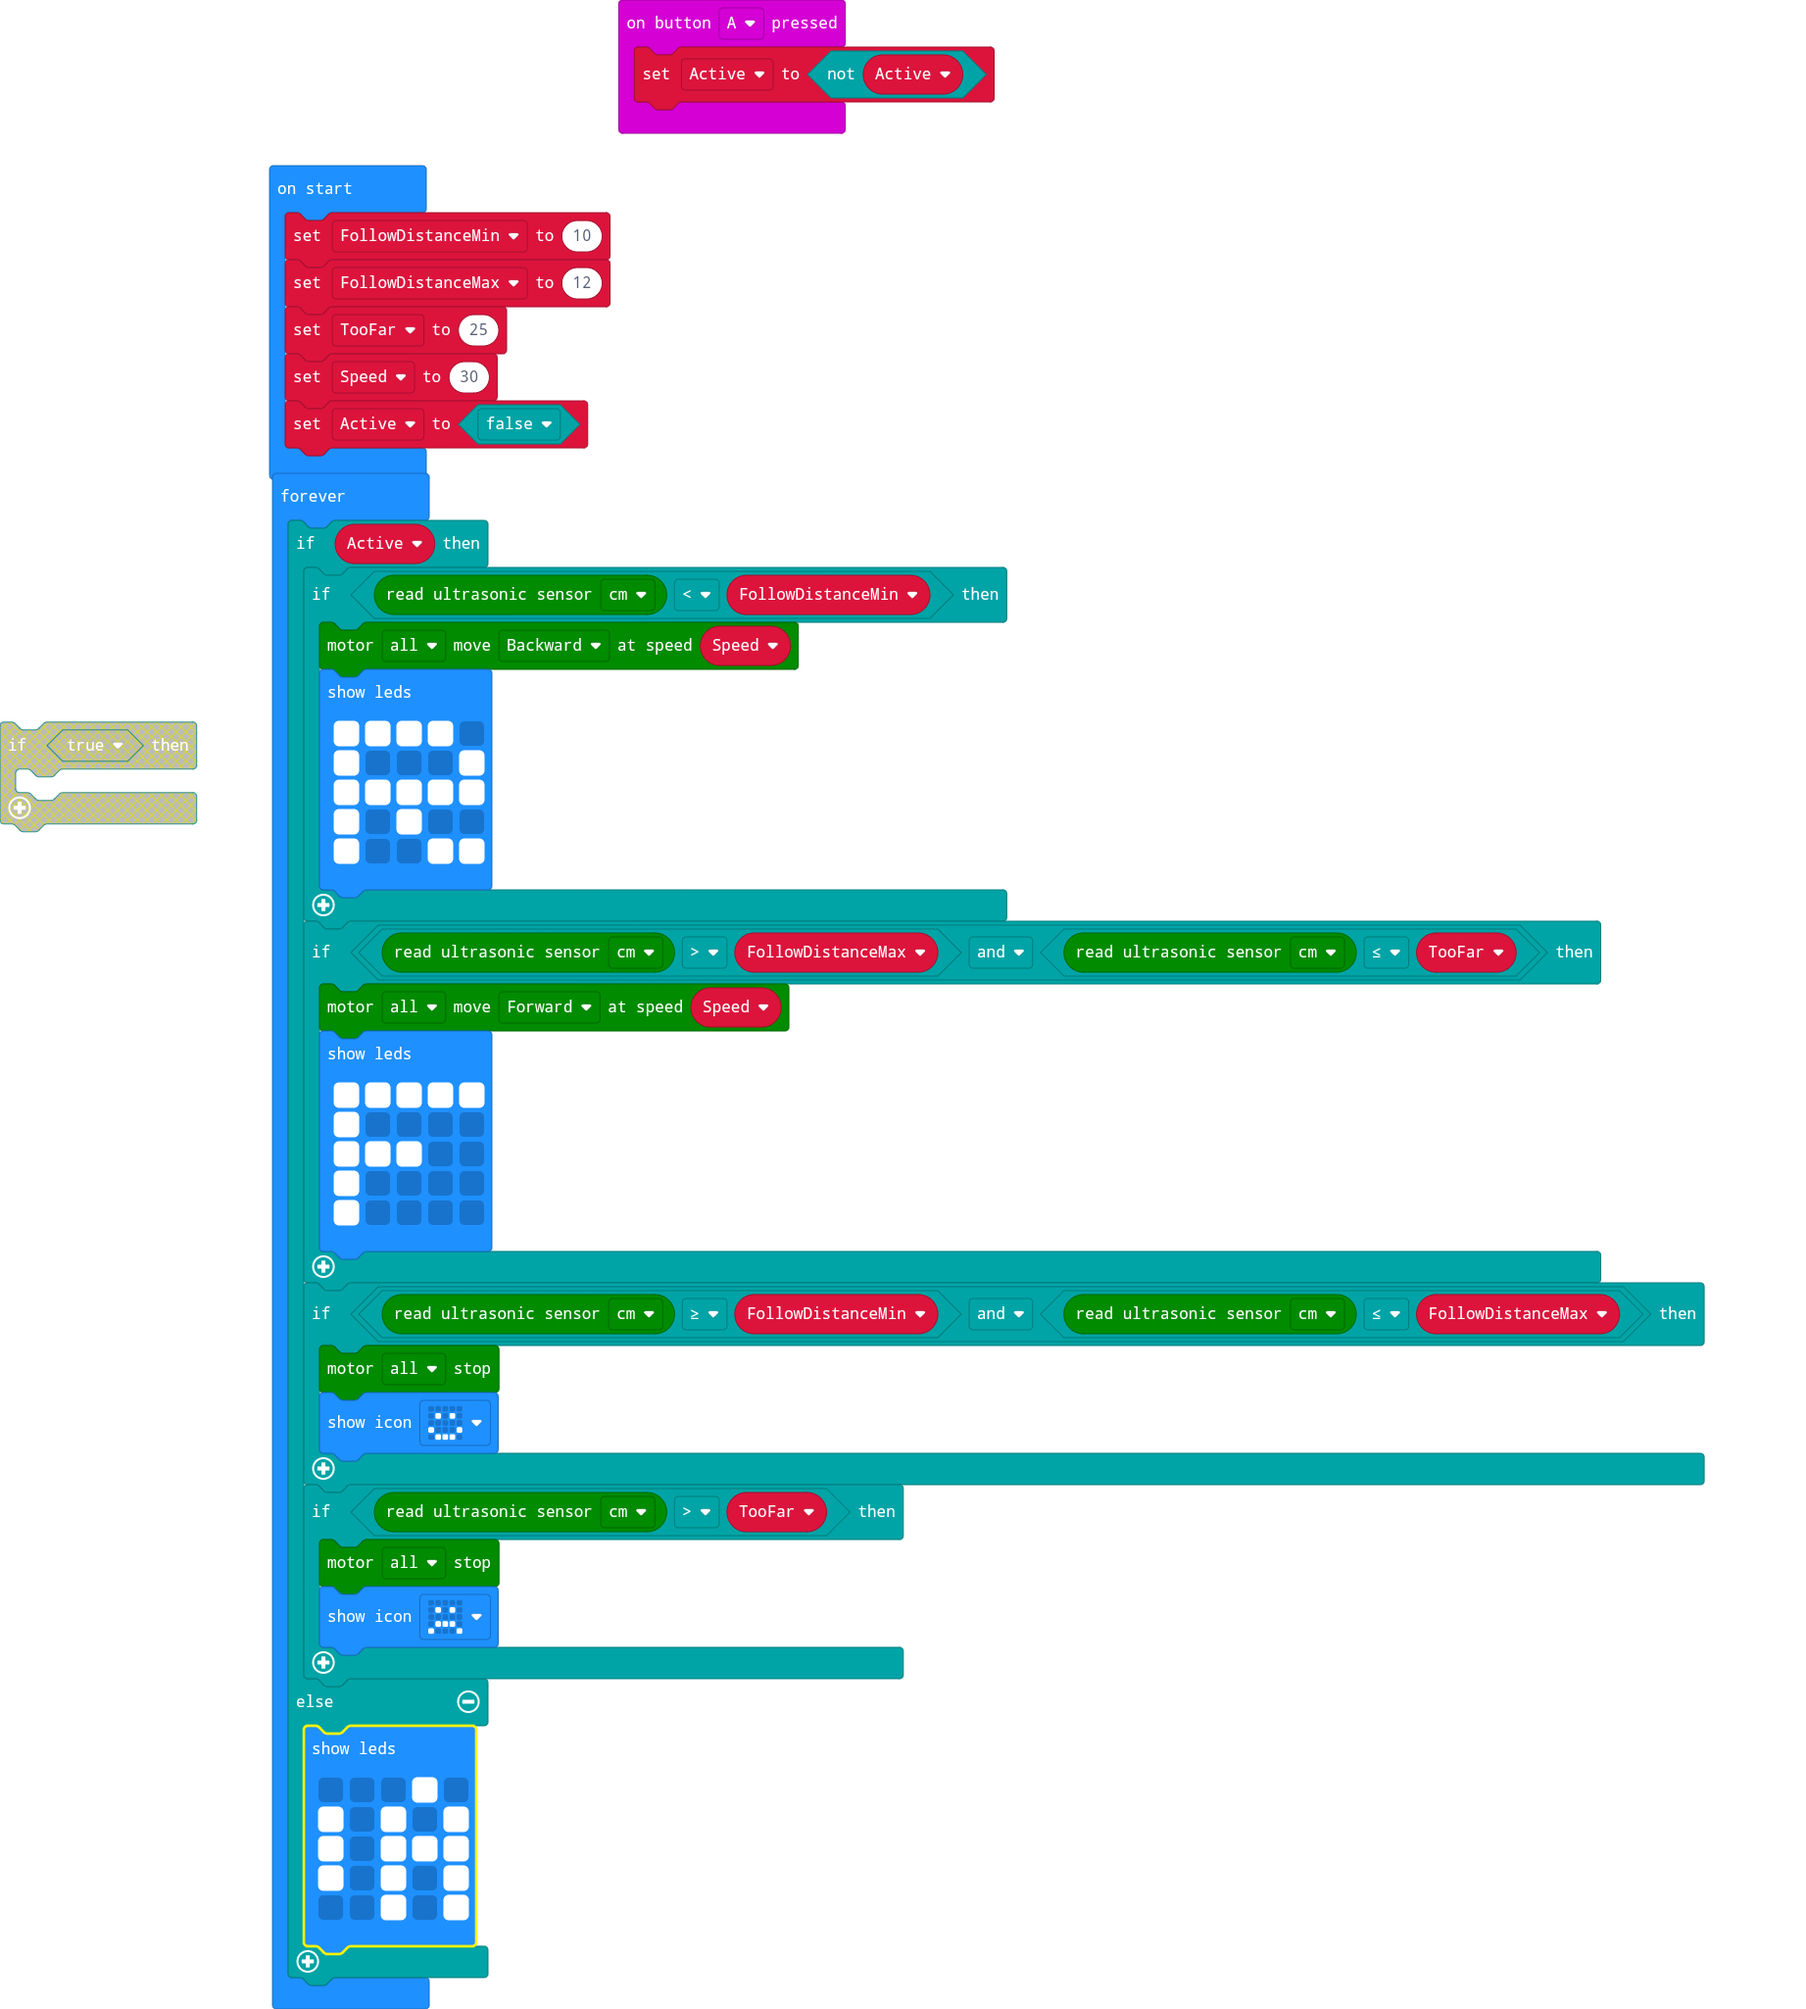
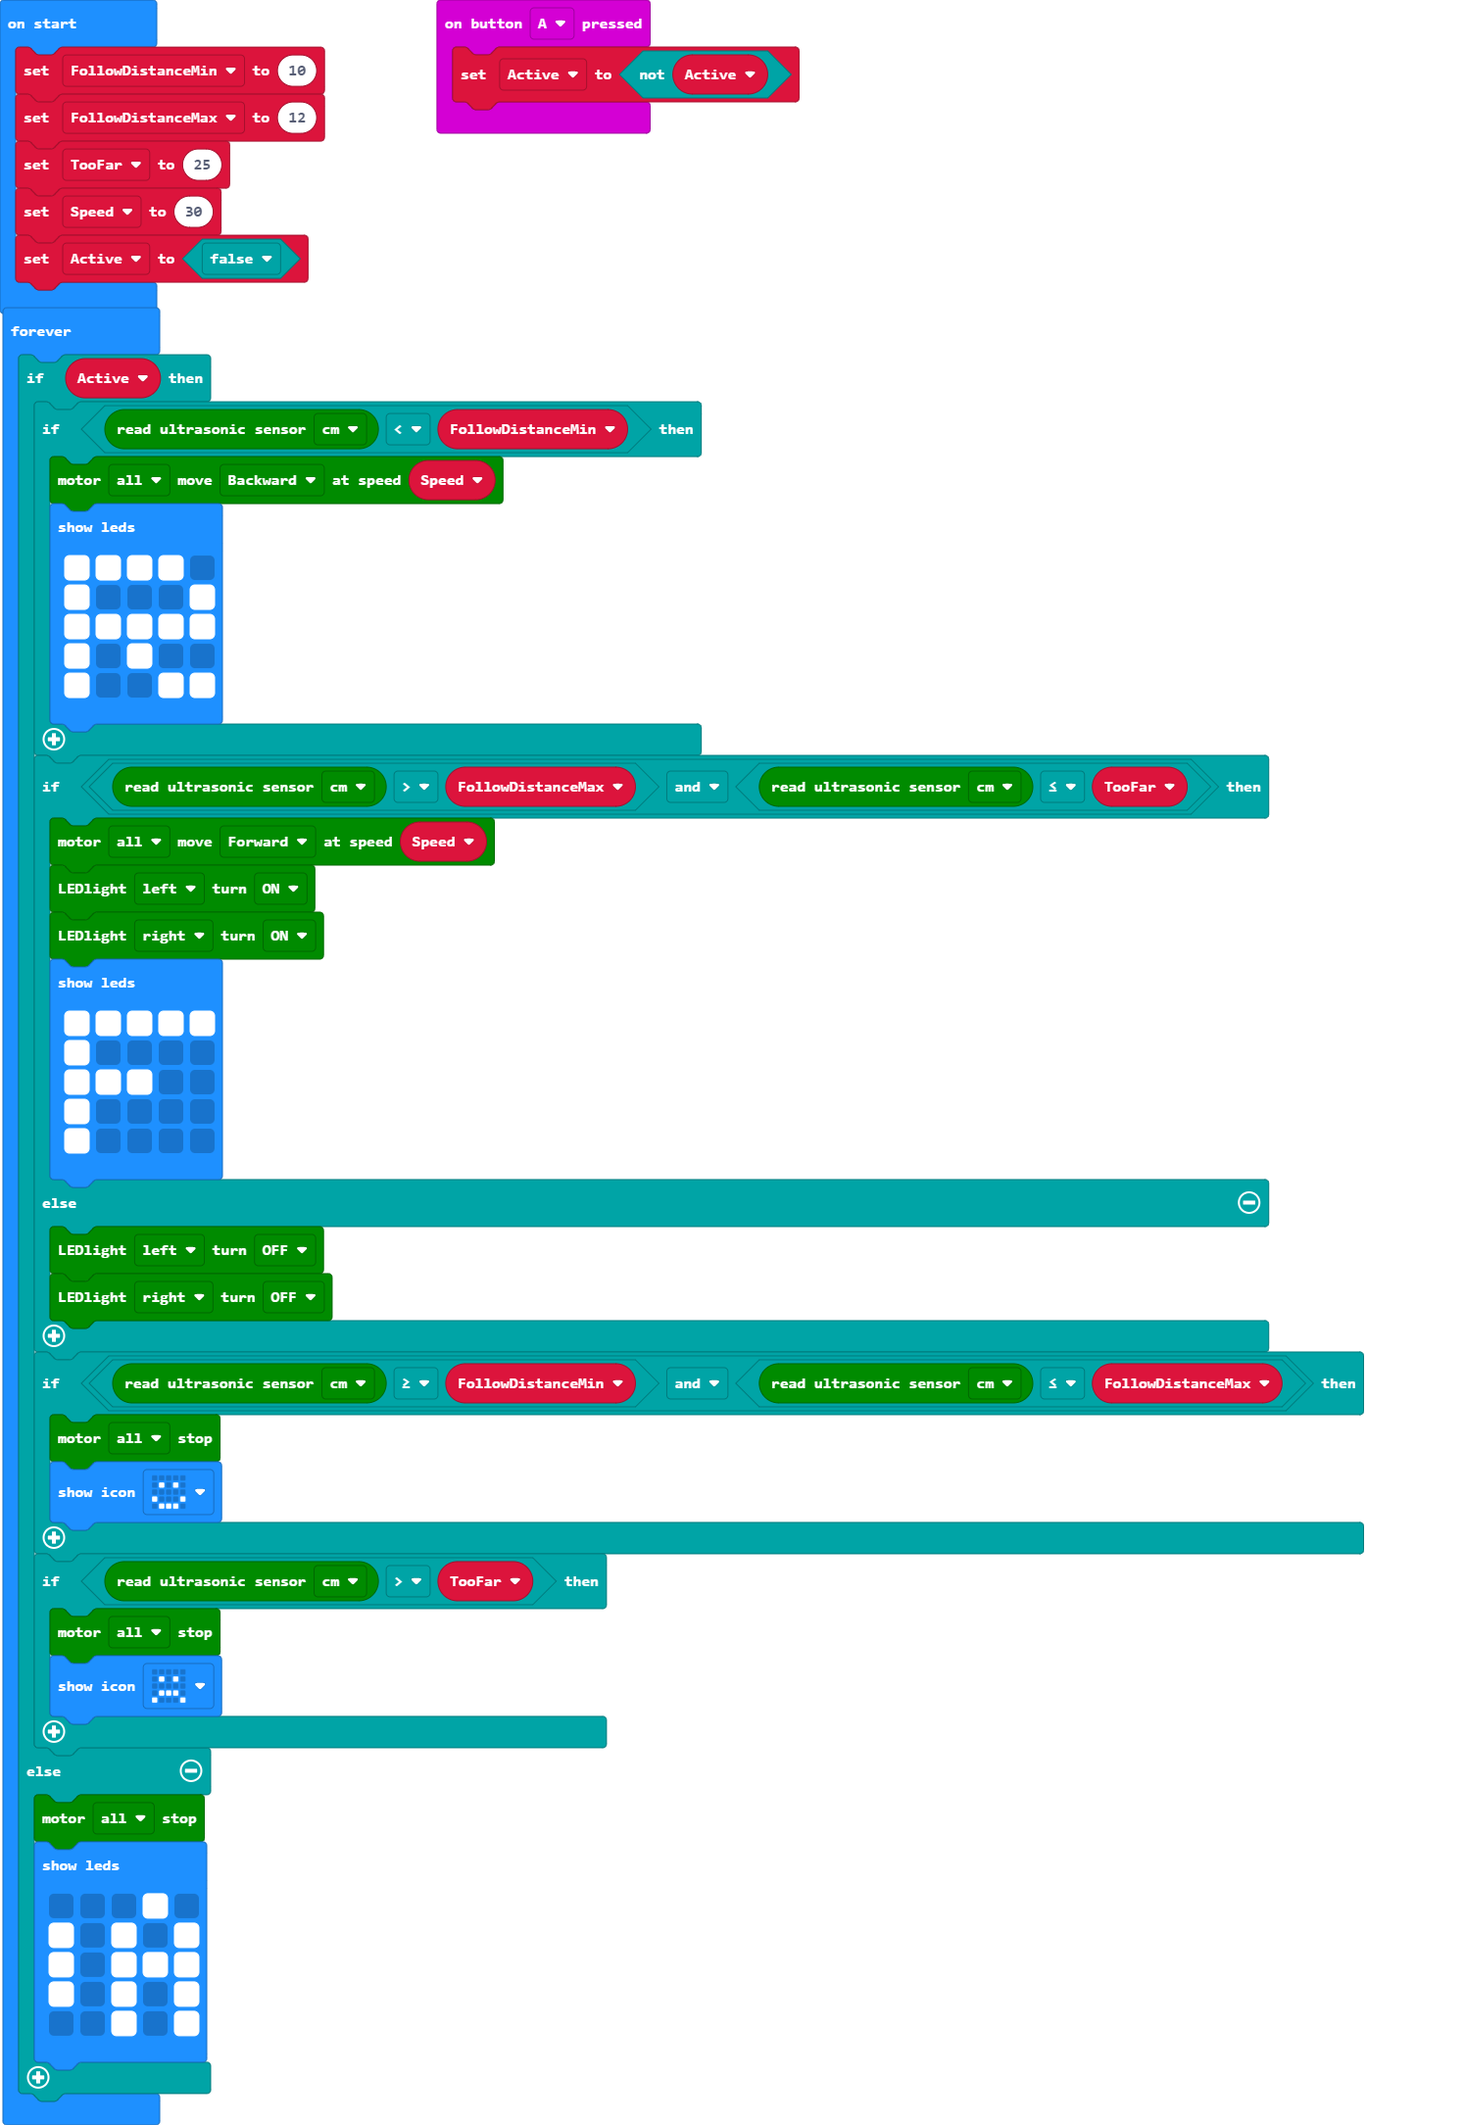
Stops on in active and head lights

diff --git a/main.ts b/main.ts
@@ -21,6 +21,8 @@ basic.forever(function () {
         }
         if (maqueen.Ultrasonic(PingUnit.Centimeters) > FollowDistanceMax && maqueen.Ultrasonic(PingUnit.Centimeters) <= TooFar) {
             maqueen.motorRun(maqueen.Motors.All, maqueen.Dir.CW, Speed)
+            maqueen.writeLED(maqueen.LED.LEDLeft, maqueen.LEDswitch.turnOn)
+            maqueen.writeLED(maqueen.LED.LEDRight, maqueen.LEDswitch.turnOn)
             basic.showLeds(`
                 # # # # #
                 # . . . .
@@ -28,6 +30,9 @@ basic.forever(function () {
                 # . . . .
                 # . . . .
                 `)
+        } else {
+            maqueen.writeLED(maqueen.LED.LEDLeft, maqueen.LEDswitch.turnOff)
+            maqueen.writeLED(maqueen.LED.LEDRight, maqueen.LEDswitch.turnOff)
         }
         if (maqueen.Ultrasonic(PingUnit.Centimeters) >= FollowDistanceMin && maqueen.Ultrasonic(PingUnit.Centimeters) <= FollowDistanceMax) {
             maqueen.motorStop(maqueen.Motors.All)
@@ -38,6 +43,7 @@ basic.forever(function () {
             basic.showIcon(IconNames.Sad)
         }
     } else {
+        maqueen.motorStop(maqueen.Motors.All)
         basic.showLeds(`
             . . . # .
             # . # . #
